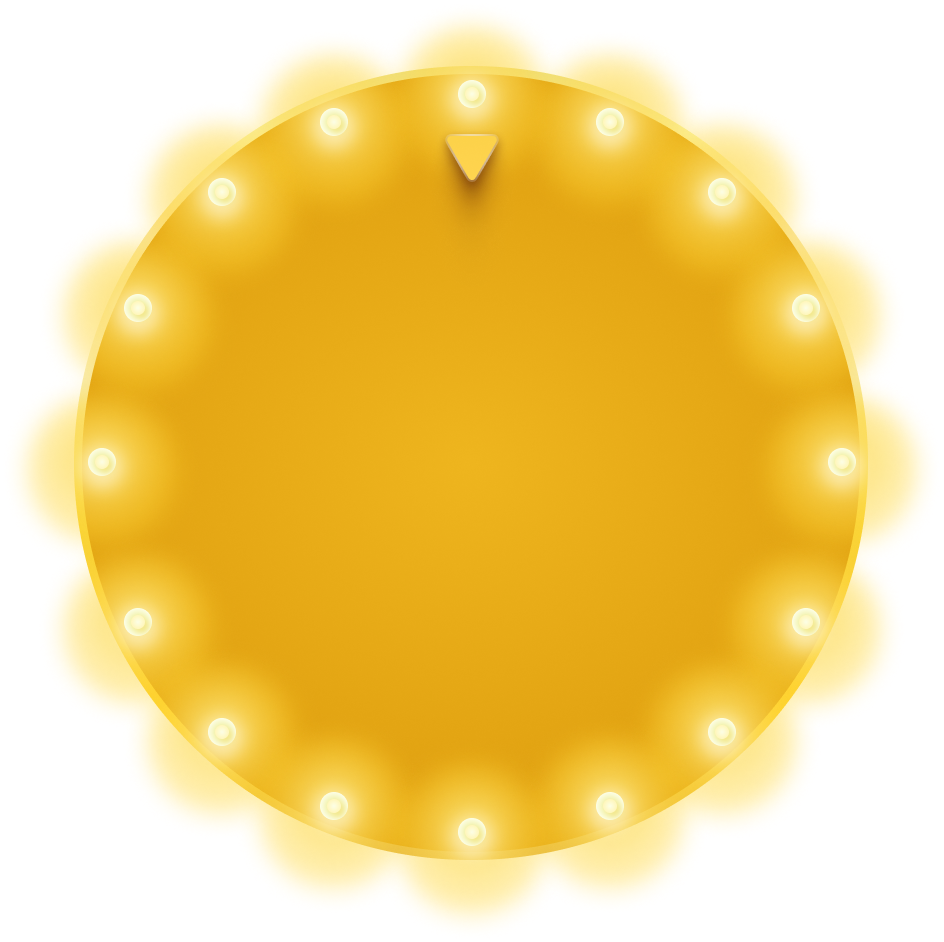
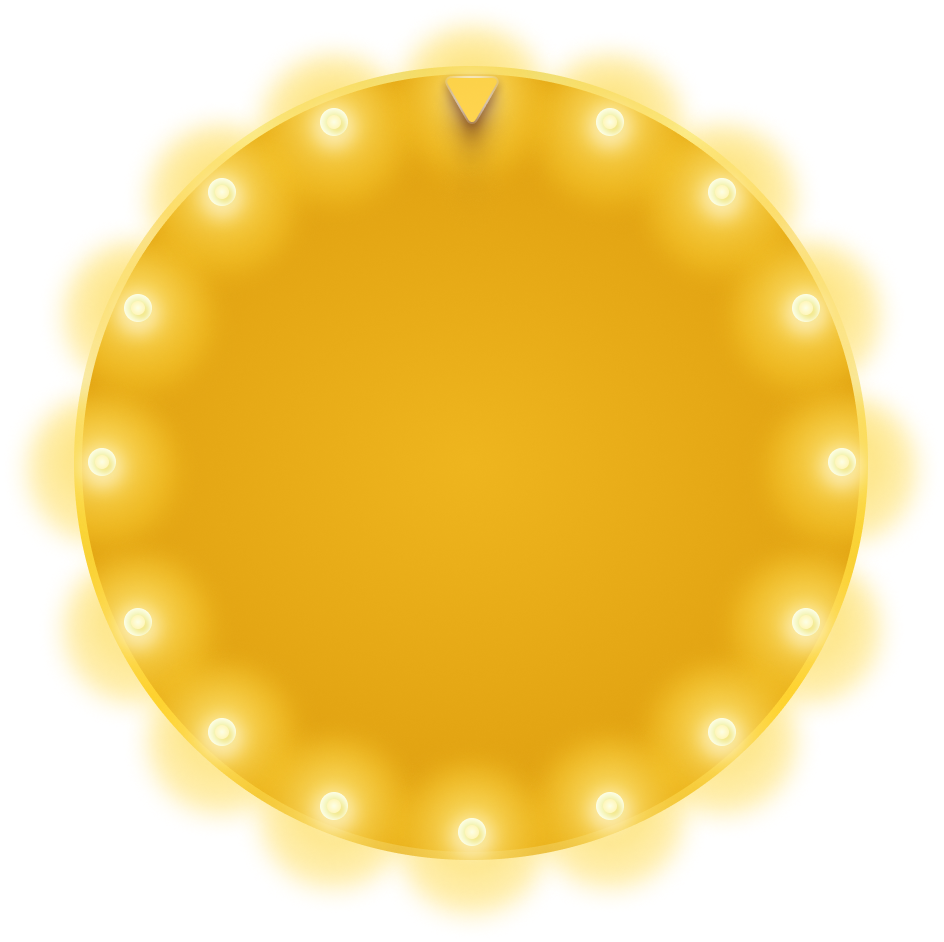
50

Changed region(s): [[0.4608, 0.0616, 0.553, 0.2155]]

diff --git a/src/components/Wheel/Wheel.tsx b/src/components/Wheel/Wheel.tsx
@@ -257,7 +257,7 @@ const spin = () => {
          //   }}
             
           >
-            <img src="img/pages/home/menu/WheelCenter.png" style={{width: '280px', display:'flex', zIndex:'11', position:'absolute', top: '95px', transform: `rotate(${rotation}deg)`,transition: isSpinning ? "transform 5s cubic-bezier(0.25, 0.1, 0.25, 1)" : "none",transformOrigin: "center", border: '1px solid red' }} alt="Wheel" />
+            <img src="img/pages/home/menu/WheelCenter.png" style={{width: '280px', display:'flex', zIndex:'11', position:'absolute', top: '105px', transform: `rotate(${rotation}deg)`,transition: isSpinning ? "transform 5s cubic-bezier(0.25, 0.1, 0.25, 1)" : "none",transformOrigin: "center", border: '1px solid red' }} alt="Wheel" />
             <img src="img/pages/home/menu/WheelBorder.png" style={{width: '389px', display:'flex',  zIndex:'10',  position:'absolute', top: '50px'}} alt="Wheel" />
 
             <img src="img/global/spin.png" className={cn("greeting__next")} style={{width: '80px', position: 'absolute', top: '70vh', left: '45vw'}} alt="Spin" onClick={spin} />
